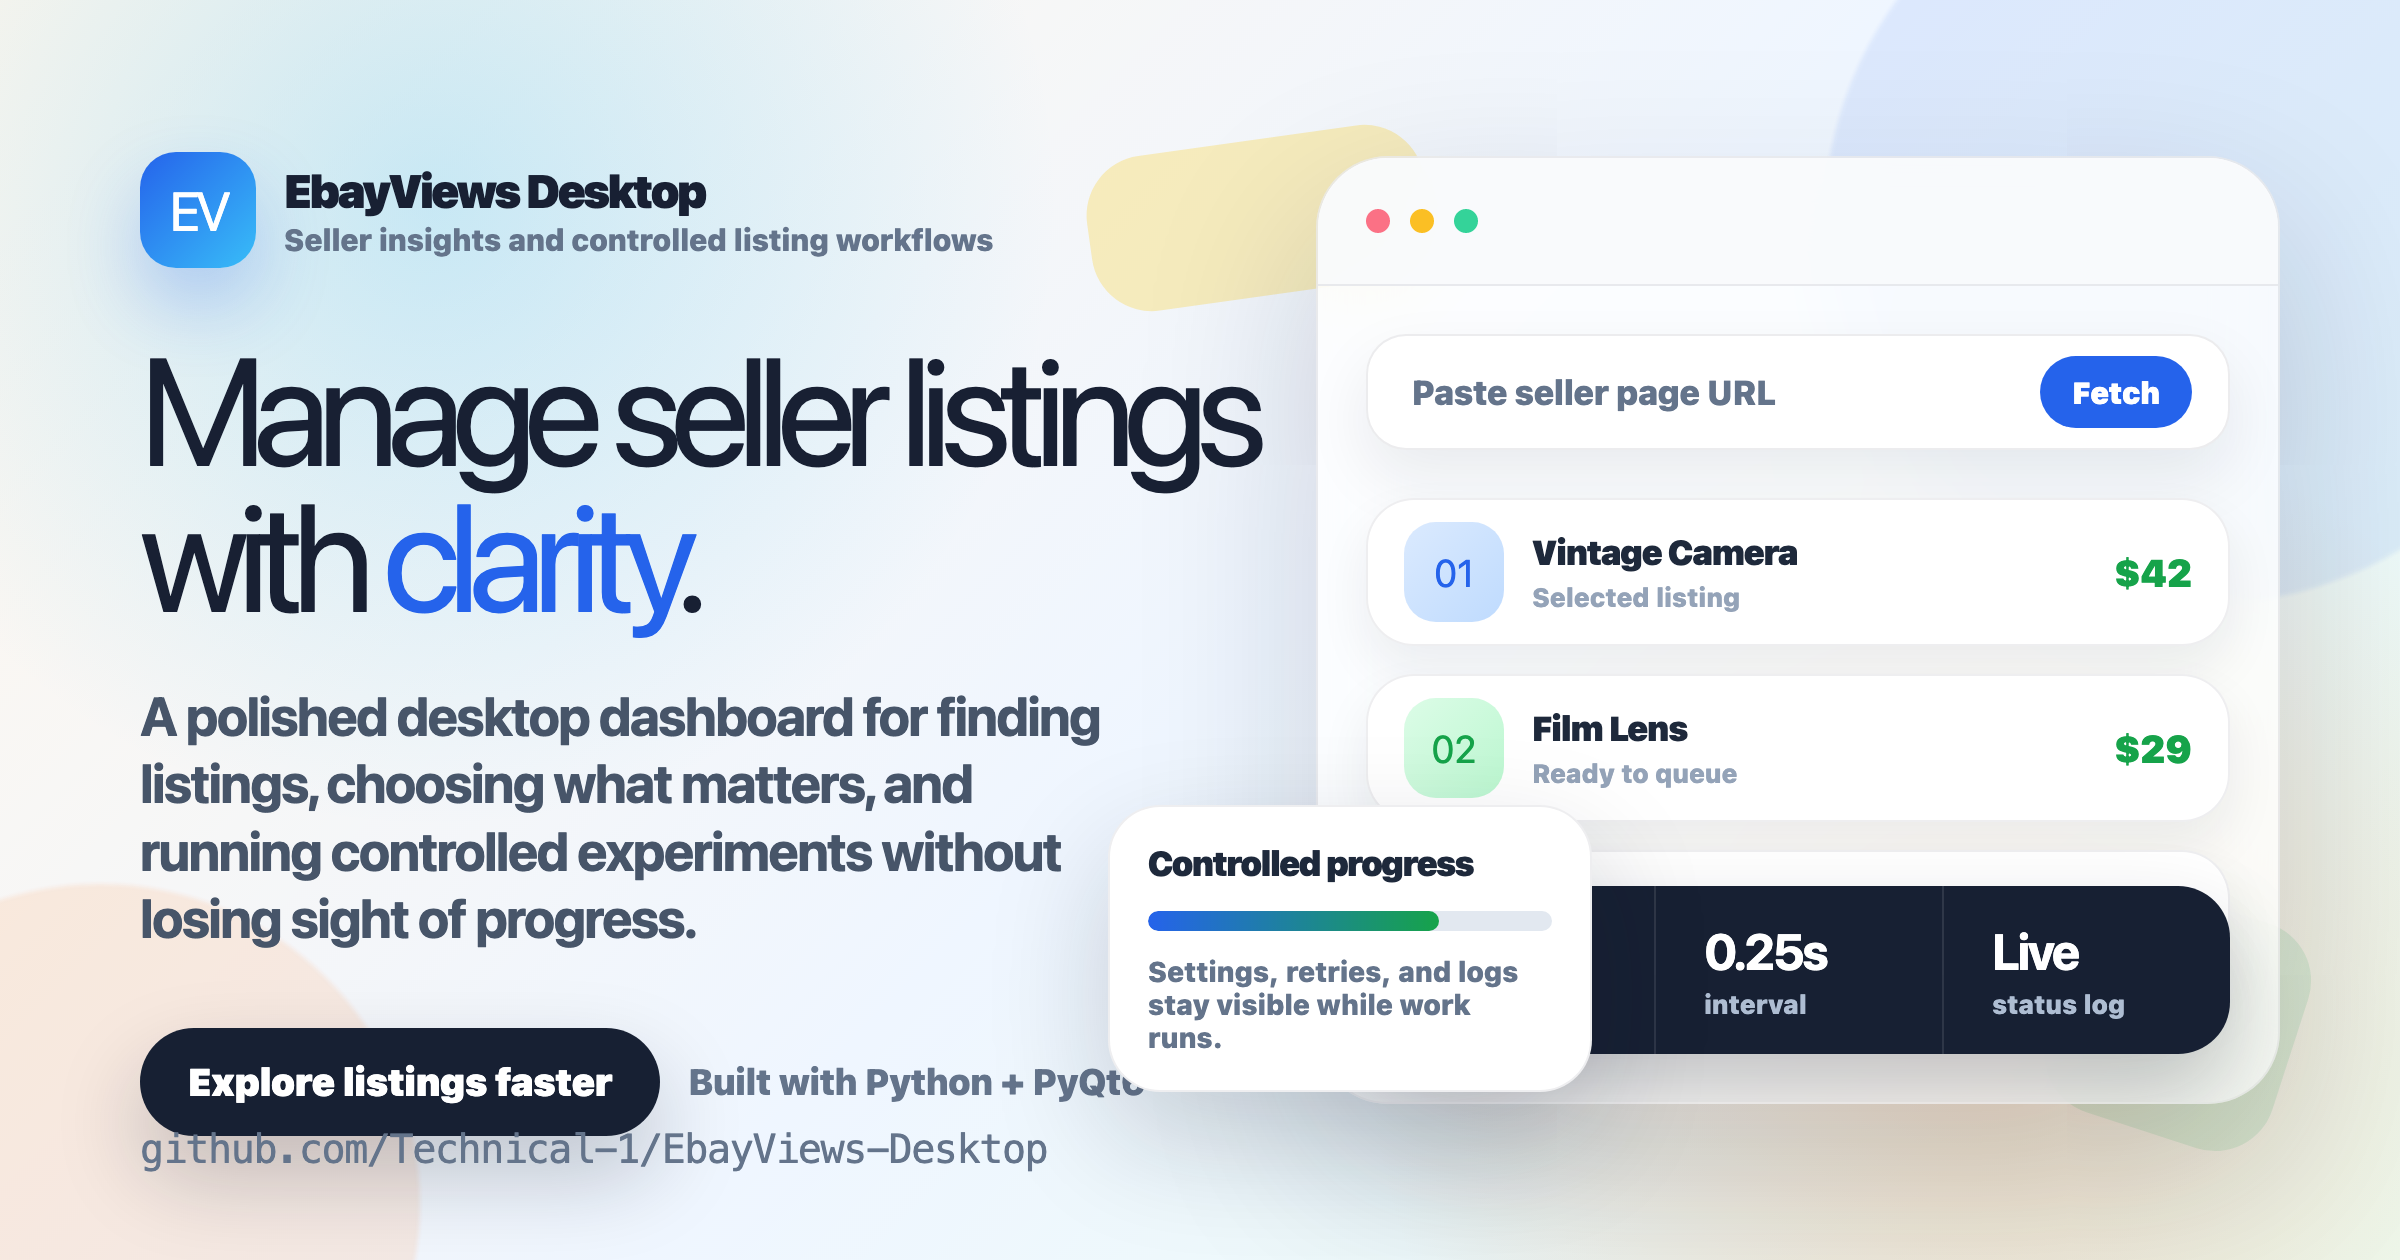
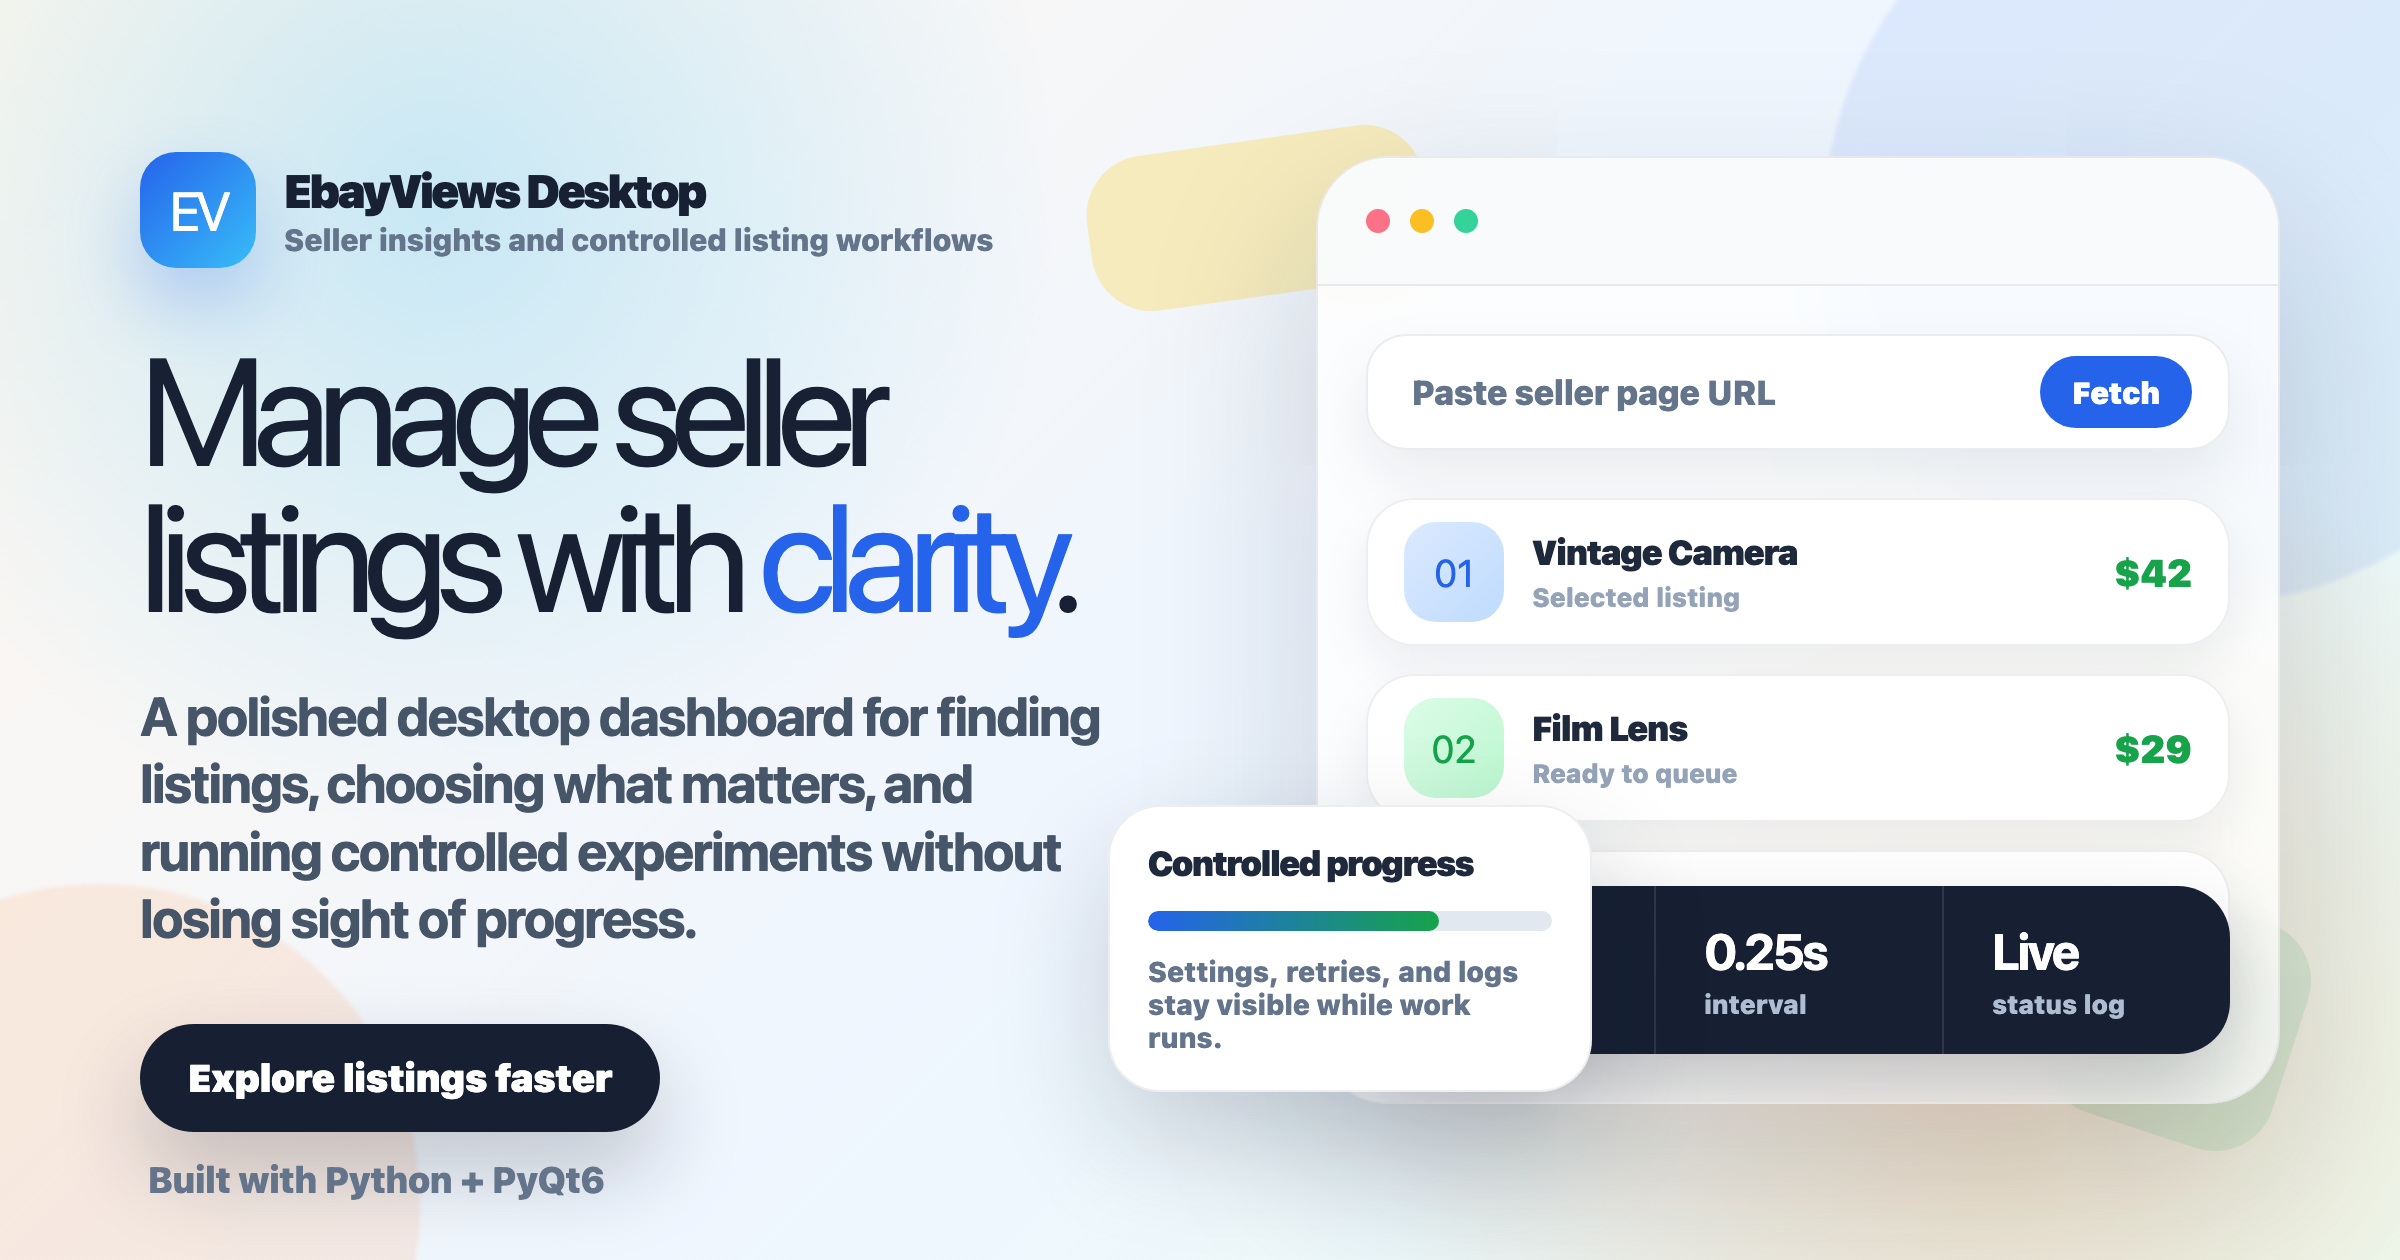
docs: refine portfolio preview layout

diff --git a/.portfolio/og-previews/og-home.html b/.portfolio/og-previews/og-home.html
@@ -92,7 +92,7 @@
       z-index: 5;
       left: 70px;
       top: 76px;
-      width: 560px;
+      width: 548px;
     }
 
     .brand-row {
@@ -156,9 +156,10 @@
 
     .cta-row {
       display: flex;
-      align-items: center;
-      gap: 14px;
-      margin-top: 38px;
+      flex-direction: column;
+      align-items: flex-start;
+      gap: 13px;
+      margin-top: 36px;
     }
 
     .cta {
@@ -178,6 +179,7 @@
       color: #64748b;
       font-size: 18px;
       font-weight: 800;
+      padding-left: 4px;
     }
 
     .showcase {
@@ -365,15 +367,6 @@
       font-weight: 760;
     }
 
-    .url {
-      position: absolute;
-      left: 70px;
-      bottom: 44px;
-      z-index: 6;
-      color: #64748b;
-      font: 20px ui-monospace, "SFMono-Regular", Menlo, Consolas, monospace;
-      letter-spacing: -0.035em;
-    }
   </style>
 </head>
 <body>
@@ -438,7 +431,6 @@
       <div class="floating-caption">Settings, retries, and logs stay visible while work runs.</div>
     </aside>
 
-    <div class="url">github.com/Technical-1/EbayViews-Desktop</div>
   </main>
 </body>
 </html>